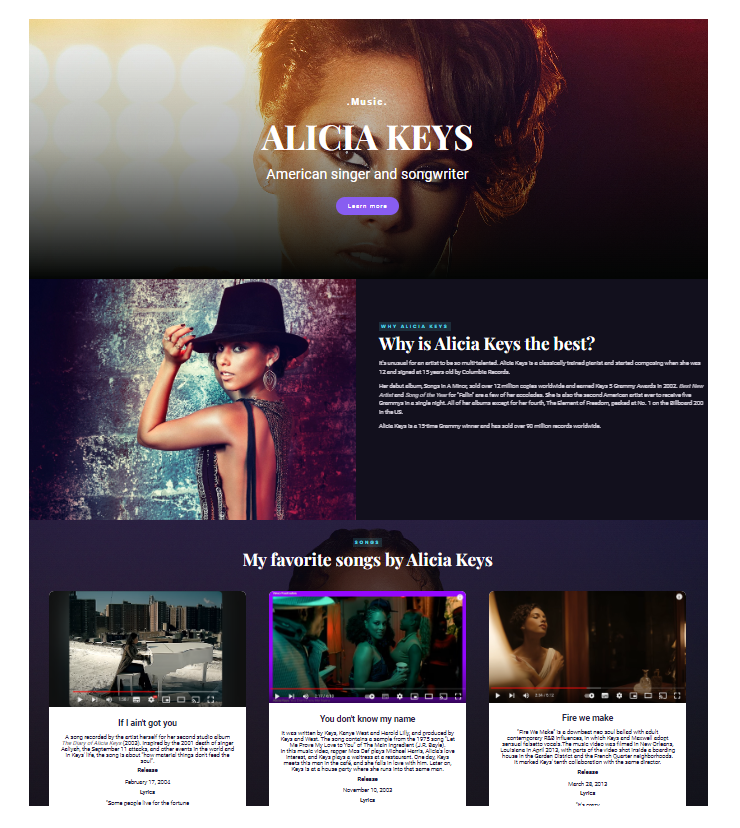
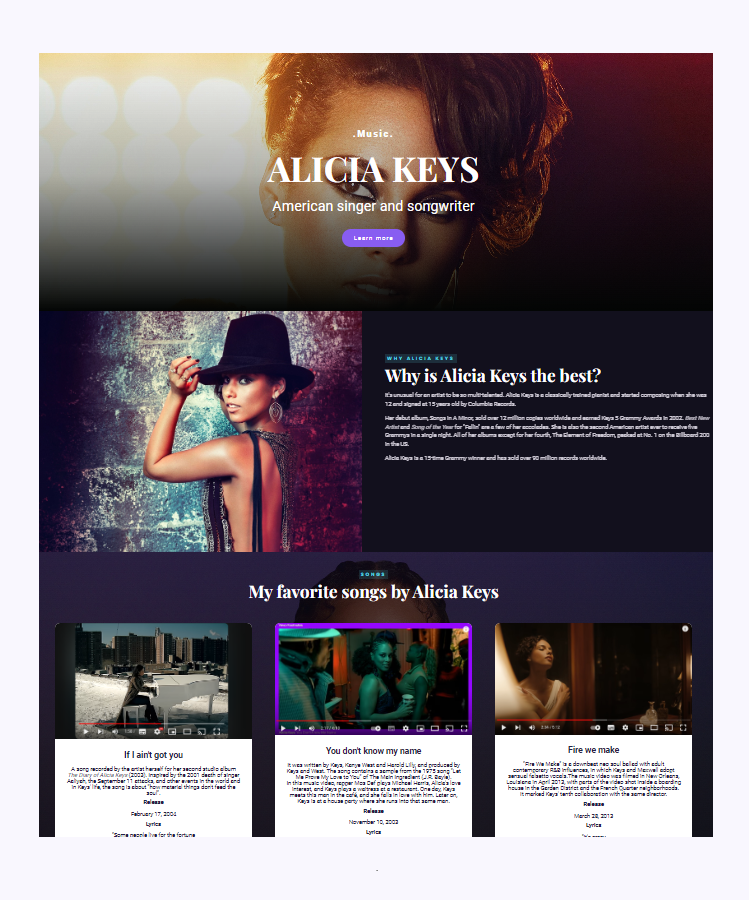
Replaced images to showcase

diff --git a/work.html b/work.html
@@ -59,18 +59,35 @@
           <p class="text-center text-muted">Built with HTML, CSS, AI API and JS</p>
         </div>
         <div class="col-md-6 mb-4">
-          <a href="https://my-weather-app-calima.netlify.app/" target="_blank" title="to weather-app project"><img
+          <a href="https://reactapp-calimaweather.netlify.app" target="_blank" title="to weather-app project"><img
               src="images/React WeatherApp project.png" id="weather-project"
               class="img-fluid shadow p-3 mb-3 bg-body-tertiary rounded" alt="cover of weather app project"></a>
           <h3 class="text-center m-0">Weather App Project</h3>
           <p class="text-center text-muted">Built with React.js</p>
         </div>
         <div class="col-md-6 mb-4">
+          <a href="https://ak-project.netlify.app/" target="_blank"
+            title="Project about Alicia Keys including Grids and embeds"><img src="images/AK project.png"
+              id="music-project" class="img-fluid shadow p-3 mb-3 bg-body-tertiary rounded"
+              alt="cover of music app project"></a>
+          <h3 class="text-center m-0">Alicia Keys</h3>
+          <p class="text-center text-muted">Built with HTML, CSS and JavaScript. Showcases responsiveness</p>
+        </div>
+        <div class="col-md-6 mb-4">
+          <a href="https://dixnry.netlify.app" target="_blank"
+            title="Dictionary App, shows word definitions and pictures as result"><img src="images/Lexipic.png"
+              id="music-project" class="img-fluid shadow p-3 mb-3 bg-body-tertiary rounded"
+              alt="cover of music app project"></a>
+          <h3 class="text-center m-0">Lexipic Dictionary</h3>
+          <p class="text-center text-muted">Built with React.js and APIs integration, this dictionary shows word
+            definitions and images as result</p>
+        </div>
+        <div class="col-md-6 mb-4">
           <a href="https://darktheme-travel-project.netlify.app/" target="_blank"
             title="to dark-theme travel project"><img src="images/Travel project.png"
               class="img-fluid shadow p-3 mb-3 bg-body-tertiary rounded" alt="cover of travel project"></a>
           <h3 class="text-center m-0">Travel Project</h3>
-          <p class="text-center text-muted">Built with HTML and CSS</p>
+          <p class="text-center text-muted">Built with HTML and CSS, showcases dark-theme button</p>
         </div>
         <div class="col-md-6 mb-4">
           <a href="https://music-project-js.netlify.app/" target="_blank" title="to JavaScript music project"><img
@@ -79,7 +96,6 @@
           <h3 class="text-center m-0">My first project</h3>
           <p class="text-center text-muted">Built with HTML, CSS and JavaScript</p>
         </div>
-
       </div>
     </div>
     <footer>

diff --git a/index.html b/index.html
@@ -6,7 +6,7 @@
   <meta http-equiv="X-UA-Compatible" content="IE=edge" />
   <meta name="viewport" content="width=device-width, initial-scale=1.0" />
   <meta name="description"
-    content="Maria is a front-end developer based in Canary Islands, Spain. Here is her portfolio to show her work.">
+    content="Maria is a Jr. front-end developer based in Canary Islands, Spain. Here is her portfolio to show her work. Multilanguage Spanish, English,, German and bit of Portuguese and French. Development skills: React, HTML, CSS, JavaScript,Responsive Apps">
   <title>👩💻 Front-End Developer - Maria Berbis</title>
   <link href="https://cdn.jsdelivr.net/npm/bootstrap@5.3.2/dist/css/bootstrap.min.css" rel="stylesheet"
     integrity="sha384-T3c6CoIi6uLrA9TneNEoa7RxnatzjcDSCmG1MXxSR1GAsXEV/Dwwykc2MPK8M2HN" crossorigin="anonymous">
